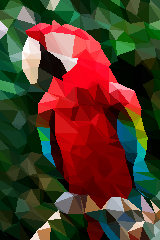
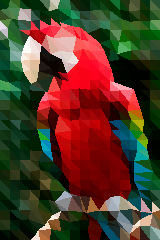
Shift size depends on extremity of difference in variance
It's still not very effective as a system, though. It might actually be better to go with the previous commit.

diff --git a/PolygonArt/tri_handler.py b/PolygonArt/tri_handler.py
@@ -27,9 +27,9 @@ class TriHandler:
         # tris is a list of 3-lists of points
         self.tris = list()
 
-    def get_tris(self, initial_side, test_shift_size, final_shift_size, adjust_iterations):
+    def get_tris(self, initial_side, test_shift_size, final_shift_multiplier, max_final_shift, adjust_iterations):
         self.initialize(initial_side)
-        self.adjust_points(test_shift_size, final_shift_size, adjust_iterations)
+        self.adjust_points(test_shift_size, final_shift_multiplier, max_final_shift, adjust_iterations)
         return list(self.tris)
 
     def initialize(self, side):
@@ -76,7 +76,7 @@ class TriHandler:
             return
         self.tris.append([p1, p2, p3])
 
-    def adjust_points(self, test_shift_size, final_shift_size, num_iter):
+    def adjust_points(self, t_shift_size, f_shift_multiplier, max_f_shift, num_iter):
         for p in range(len(self.points)):
             self.points[p].sort_adjacent()
         for iteration in range(num_iter):
@@ -94,7 +94,7 @@ class TriHandler:
                         pix = pixels_in_tri(a_tris[i])
                         m_colors.append(self.median_color(pix))
 
-                    test_coords = point.get_test_coords(test_shift_size)
+                    test_coords = point.get_test_coords(t_shift_size)
 
                     # up, right, down, left
                     variances = []
@@ -125,9 +125,9 @@ class TriHandler:
                     horizontal_push = variances[3] - variances[1]
                     # negative values push the point up, positive values push it down
                     vertical_push = variances[0] - variances[2]
-                    # test_renderer.render('output\iteration{}, ({}, {}).png'.format(iteration, horizontal_push, vertical_push))
 
-                    final_point = point.get_final_coords(vertical_push, horizontal_push, final_shift_size)
+                    final_point =\
+                        point.get_final_coords(vertical_push, horizontal_push, f_shift_multiplier, max_f_shift)
 
                     point.x = final_point[0]
                     point.y = final_point[1]

diff --git a/PolygonArt/point.py b/PolygonArt/point.py
@@ -94,10 +94,7 @@ class Point:
     # make sure adjacent points are sorted before calling this!
     # negative h_push pushes the point left, positive h_push pushes it right
     # negative v_push pushes the point up, positive v_push pushes it down
-    def get_final_coords(self, v_push, h_push, shift_size):
-        if shift_size <= 0 or shift_size >= 1:
-            print("Error: shift_size is not within the interval (0.0, 1.0)")
-            return None
+    def get_final_coords(self, v_push, h_push, shift_multiplier, max_shift):
 
         # for some reason when h_push is zero it makes intersection return None (regardless of y?) so
         if h_push == 0:
@@ -125,8 +122,9 @@ class Point:
             for a in self.adjacent:
                 print(a)
 
-        return self.x + (closest_intersect[0] - self.x) * shift_size,\
-            self.y + (closest_intersect[1] - self.y) * shift_size
+        return inv_vector_interpolate(
+            (self.x, self.y), closest_intersect, (h_push, v_push), shift_multiplier, max_shift
+        )
 
     def on_edge(self, image_w, image_h):
         return self.x_locked(image_w) or self.y_locked(image_h)
@@ -182,3 +180,17 @@ def intersection(l1p1, l1p2, l2p1, l2p2):
         x = (b2 * c1 - b1 * c2) / determinant
         y = (a1 * c2 - a2 * c1) / determinant
         return x, y
+
+
+def inv_vector_interpolate(start_point, end_point, push_vector, multiplier, max_percent):
+    percent_interpolate = inv_interpolate(push_vector[0] / (start_point[0] - end_point[0]), multiplier) * max_percent
+    return start_point[0] + (end_point[0] - start_point[0]) * percent_interpolate,\
+        start_point[1] + (end_point[1] - start_point[1]) * percent_interpolate
+
+
+# should return a float between 0 and 1
+def inv_interpolate(push, multiplier):
+    output = (-1 / (1 + multiplier * abs(push))) + 1
+    if output < 0 or output > 1:
+        print("ERROR: inv_interpolate")
+    return output

diff --git a/PolygonArt/main.py b/PolygonArt/main.py
@@ -24,8 +24,8 @@ else:
 
 tri_handler = th.TriHandler(pixel_array)
 
-# initial side, test shift size, final shift size, adjust iterations
-tris = tri_handler.get_tris(10, .1, .1, 50)
+# initial side, test shift size, final shift multiplier, max final shift percentage, adjust iterations
+tris = tri_handler.get_tris(10, 0.1, 0.0001, 0.8, 50)
 
 renderer = rend.PolyRenderer(pixel_array, tris)
 renderer.render('output\\output.png')
